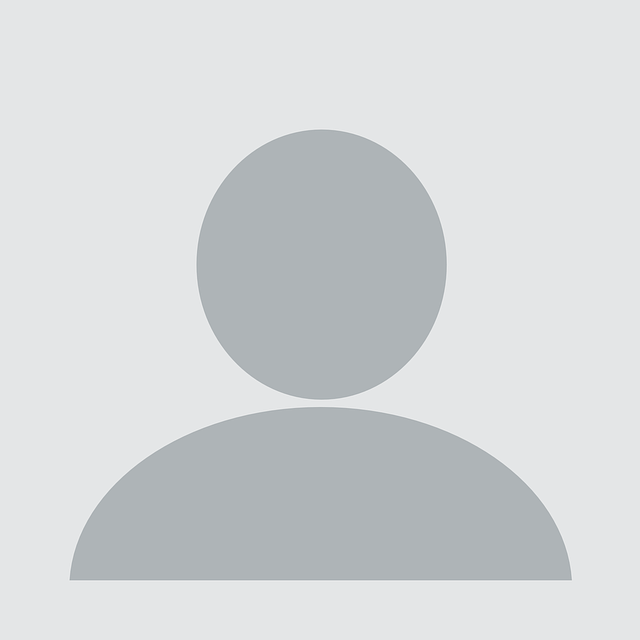
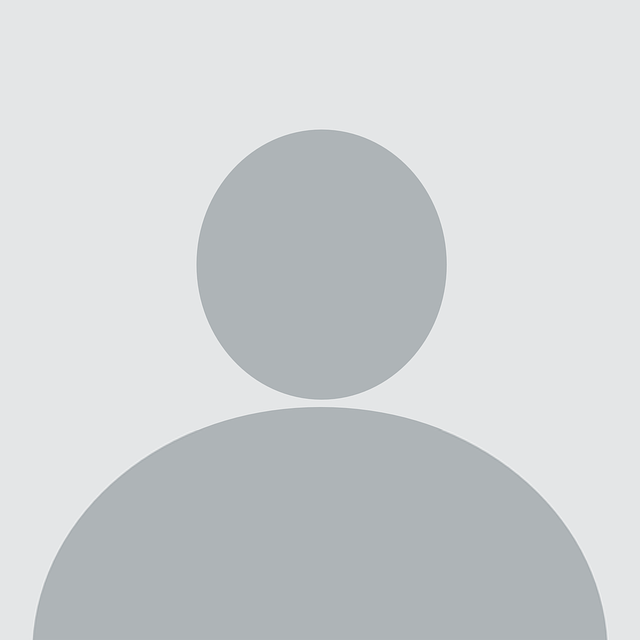
Added profile pictures to (viewProfile) pages aswell. Added more db data to init_db.py for a better example of the prototype.

diff --git a/templates/view-profile.html b/templates/view-profile.html
@@ -2,10 +2,14 @@
 
 {% block content %}
     <div class='post'>
+        <object class="pp" data="{{ url_for('static', filename=image['img']) }}">
+            <img src="{{ url_for('static', filename='placeholder.png') }}" alt="profile picture">
+        </object>
+
         <h1>{{ user['firstname'] }} {{ user['lastname'] }}</h1>
         <div id="textsec">
-            <h3>{{ user['age'] }}</h3>
-            <h3>{{ user['country'] }}</h3>
+            <h3>Age: {{ user['age'] }}</h3>
+            <h3>Country: {{ user['country'] }}</h3>
         </div>
     </div>
     <div class="post">
@@ -13,4 +17,18 @@
             <button id="button" type="submit">Message {{ user['firstname'] }}</button>
         </form>
     </div>
+    <h1 id="title">{{ user['firstname'] }}'s guides</h1>
+    {% for post in posts %}
+        <div class='post'>
+            <h3>
+                <a id="profile"
+                   href="{{ url_for('viewProfile', id=post['id'], u=post['byUser']) }}">{{ post['firstname'] }} {{ post['lastname'] }}</a>
+            </h3>
+            <p id="type">{{ post['type'] }}</p>
+            <p id="date">{{ post['created'] }}</p>
+            <h2>{{ post['title'] }}</h2>
+            <h3>{{ post['city'] }}, {{ post['country'] }}</h3>
+            <a href="{{ url_for('view', id=post['id']) }}">View</a>
+        </div>
+    {% endfor %}
 {% endblock %}

diff --git a/templates/profile.html b/templates/profile.html
@@ -9,8 +9,8 @@
         <h1>{{ user['firstname'] }} {{ user['lastname'] }}</h1>
 
         <div id="textsec">
-            <h3>{{ user['age'] }}</h3>
-            <h3>{{ user['country'] }}</h3>
+            <h3>Age: {{ user['age'] }}</h3>
+            <h3>Country: {{ user['country'] }}</h3>
         </div>
 
         <form method="post" action="/profile/">
@@ -24,7 +24,7 @@
         <div class='post'>
             <h3>
                 <a id="profile"
-                   href="{{ url_for('viewProfile', id=guide['guide'], u=guide['user']) }}">{{ guide['firstname'] }} {{ guide['lastname'] }}
+                   href="{{ url_for('viewProfile', id=guide['guide'], u=guide['byUser']) }}">{{ guide['firstname'] }} {{ guide['lastname'] }}
                 </a>
             </h3>
             <p id="date">({{ guide['from_date'] }}) - ({{ guide['to_date'] }})</p>

diff --git a/templates/create.html b/templates/create.html
@@ -54,8 +54,8 @@
                 <br>
                 <select name="type">
                     <option value="Private individual">Private individual</option>
-                    <option value="museum">Museum</option>
-                    <option value="company">Local company</option>
+                    <option value="Museum">Museum</option>
+                    <option value="Company">Local company</option>
                     value="{{ request.form['type'] }}
                 </select>
             </label>

diff --git a/templates/user.html b/templates/user.html
@@ -6,6 +6,8 @@
         <form method="post" action="/user/">
             <button id="button" type="submit" value="1" name="user1">User 1 (Oliver)</button>
             <button id="button" type="submit" value="2" name="user2">User 2 (Nontagan)</button>
+            <button id="button" type="submit" value="3" name="user3">User 3 (Erik)</button>
+            <button id="button" type="submit" value="4" name="user4">User 4 (Sakariya)</button>
         </form>
     </div>
 {% endblock %}

diff --git a/init_db.py b/init_db.py
@@ -10,43 +10,53 @@ cur = connection.cursor()
 cur.execute("INSERT INTO user (firstname, lastname, age, country) VALUES (?, ?, ?, ?)",
             ('Oliver Lind', 'Kristiansen', 20, 'Norway')
             )
-
 cur.execute("INSERT INTO user (firstname, lastname, age, country) VALUES (?, ?, ?, ?)",
             ('Nontagan', 'Phomin', 21, 'Norway')
             )
-
 cur.execute("INSERT INTO user (firstname, lastname, age, country) VALUES (?, ?, ?, ?)",
             ('Erik', 'Evjen', 23, 'Norway')
             )
-
 cur.execute("INSERT INTO user (firstname, lastname, age, country) VALUES (?, ?, ?, ?)",
             ('Sakariya', 'Mahamud', 24, 'Norway')
             )
 
-cur.execute("INSERT INTO posts (byUser, title, content, country, city, language, price, type) VALUES (?, ?, ?, ?, ?, ?, ?, ?)",
-            (1, 'Olivers guide', 'Hi, is this working?', 'Norway', 'Halden', 'Norsk', 320, 'Private individual')
-            )
-
-cur.execute("INSERT INTO posts (byUser, title, content, country, city, language, price, type) VALUES (?, ?, ?, ?, ?, ?, ?, ?)",
-            (2, 'Nontagans guide', 'Hi, do you want a tour?', 'Thailand', 'Bangkok', 'Thai', 425, 'Private individual')
-            )
+cur.execute(
+    "INSERT INTO posts (byUser, title, content, country, city, language, price, type) VALUES (?, ?, ?, ?, ?, ?, ?, ?)",
+    (1, 'Olivers guide', 'Lets tour Halden city together!', 'Norway', 'Halden', 'Norwegian', 320, 'Private individual')
+)
+cur.execute(
+    "INSERT INTO posts (byUser, title, content, country, city, language, price, type) VALUES (?, ?, ?, ?, ?, ?, ?, ?)",
+    (2, 'Nontagans guide', 'Hi, do you want a tour?', 'Thailand', 'Bangkok', 'Thai', 425, 'Private individual')
+)
+cur.execute(
+    "INSERT INTO posts (byUser, title, content, country, city, language, price, type) VALUES (?, ?, ?, ?, ?, ?, ?, ?)",
+    (3, 'Eriks guide', 'This is my guide og Rome.', 'Italy', 'Rome', 'English', 515, 'Private individual')
+)
+cur.execute(
+    "INSERT INTO posts (byUser, title, content, country, city, language, price, type) VALUES (?, ?, ?, ?, ?, ?, ?, ?)",
+    (4, 'Sakariyas guide', 'Great tourist guide of Sydney.', 'Australia', 'Sydney', 'English', 515, 'Private individual')
+)
+cur.execute(
+    "INSERT INTO posts (byUser, title, content, country, city, language, price, type) VALUES (?, ?, ?, ?, ?, ?, ?, ?)",
+    (1, 'Tokyo museum guided city tour', 'Lets explore Tokyo together', 'Japan', 'Tokyo', 'English', 449, 'Museum')
+)
+cur.execute(
+    "INSERT INTO posts (byUser, title, content, country, city, language, price, type) VALUES (?, ?, ?, ?, ?, ?, ?, ?)",
+    (2, 'Oslo city tour', 'Guided tour through Oslo city', 'Norway', 'Oslo', 'Norwegian', 650, 'Private individual')
+)
 
 cur.execute("INSERT INTO chat (user1, user2) VALUES (?, ?)",
             (1, 2)
             )
-
 cur.execute("INSERT INTO chat (user1, user2) VALUES (?, ?)",
             (1, 3)
             )
-
 cur.execute("INSERT INTO chat (user1, user2) VALUES (?, ?)",
             (1, 4)
             )
-
 cur.execute("INSERT INTO chat (user1, user2) VALUES (?, ?)",
             (2, 4)
             )
-
 cur.execute("INSERT INTO chat (user1, user2) VALUES (?, ?)",
             (3, 4)
             )
@@ -54,27 +64,21 @@ cur.execute("INSERT INTO chat (user1, user2) VALUES (?, ?)",
 cur.execute("INSERT INTO message (content, inChat, byUser) VALUES (?, ?, ?)",
             ('Hello Nontagan!', 1, 1)
             )
-
 cur.execute("INSERT INTO message (content, inChat, byUser) VALUES (?, ?, ?)",
             ('Hello Oliver!', 1, 2)
             )
-
 cur.execute("INSERT INTO message (content, inChat, byUser) VALUES (?, ?, ?)",
             ('Yo, Nontagan!', 4, 4)
             )
-
 cur.execute("INSERT INTO message (content, inChat, byUser) VALUES (?, ?, ?)",
             ('Hello Sakariya!', 3, 1)
             )
-
 cur.execute("INSERT INTO message (content, inChat, byUser) VALUES (?, ?, ?)",
             ('Hello Erik!', 2, 1)
             )
-
 cur.execute("INSERT INTO message (content, inChat, byUser) VALUES (?, ?, ?)",
             ('How are you?', 1, 1)
             )
-
 cur.execute("INSERT INTO message (content, inChat, byUser) VALUES (?, ?, ?)",
             ('Hello Sakariya!', 4, 2)
             )
@@ -82,7 +86,6 @@ cur.execute("INSERT INTO message (content, inChat, byUser) VALUES (?, ?, ?)",
 cur.execute("INSERT INTO guide_user (user, guide, from_date, to_date) VALUES (?, ?, ?, ?)",
             (1, 2, "2023-10-15", "2023-10-20")
             )
-
 cur.execute("INSERT INTO guide_user (user, guide, from_date, to_date) VALUES (?, ?, ?, ?)",
             (2, 1, "2023-11-04", "2023-11-14")
             )
@@ -90,7 +93,6 @@ cur.execute("INSERT INTO guide_user (user, guide, from_date, to_date) VALUES (?,
 cur.execute("INSERT INTO images (img, user) VALUES (?, ?)",
             ("shinji.jpg", 1)
             )
-
 cur.execute("INSERT INTO images (img, user) VALUES (?, ?)",
             ("evangelion.jpg", 2)
             )

diff --git a/app.py b/app.py
@@ -48,6 +48,12 @@ def user():
         elif request.form.get('user2') == '2':
             user_id = 2
             return redirect(url_for('profile'))
+        elif request.form.get('user3') == '3':
+            user_id = 3
+            return redirect(url_for('profile'))
+        elif request.form.get('user4') == '4':
+            user_id = 4
+            return redirect(url_for('profile'))
 
     return render_template('user.html')
 
@@ -147,13 +153,16 @@ def viewProfile(id, u):
     global user_id
     user = db.execute('SELECT * FROM posts, user WHERE posts.id = ? AND user.id = posts.byUser OR user.id = ?',
                       (id, u,)).fetchone()
+    posts = db.execute('SELECT * FROM posts, user WHERE user.id = ? AND posts.byUser = user.id ORDER BY posts.id DESC',
+                       (u,)).fetchall()
+    image = db.execute('SELECT * FROM images WHERE images.user = ? ORDER BY id DESC LIMIT 1', (u,)).fetchone()
     if request.method == 'POST':
         db.execute('INSERT INTO chat (user1, user2) VALUES (?, ?)',
                    (user_id, u))
         db.commit()
         db.close()
         return redirect(url_for('chat'))
-    return render_template('view-profile.html', user=user)
+    return render_template('view-profile.html', user=user, posts=posts, image=image)
 
 
 @app.route('/<int:id>/rent/', methods=('GET', 'POST'))
